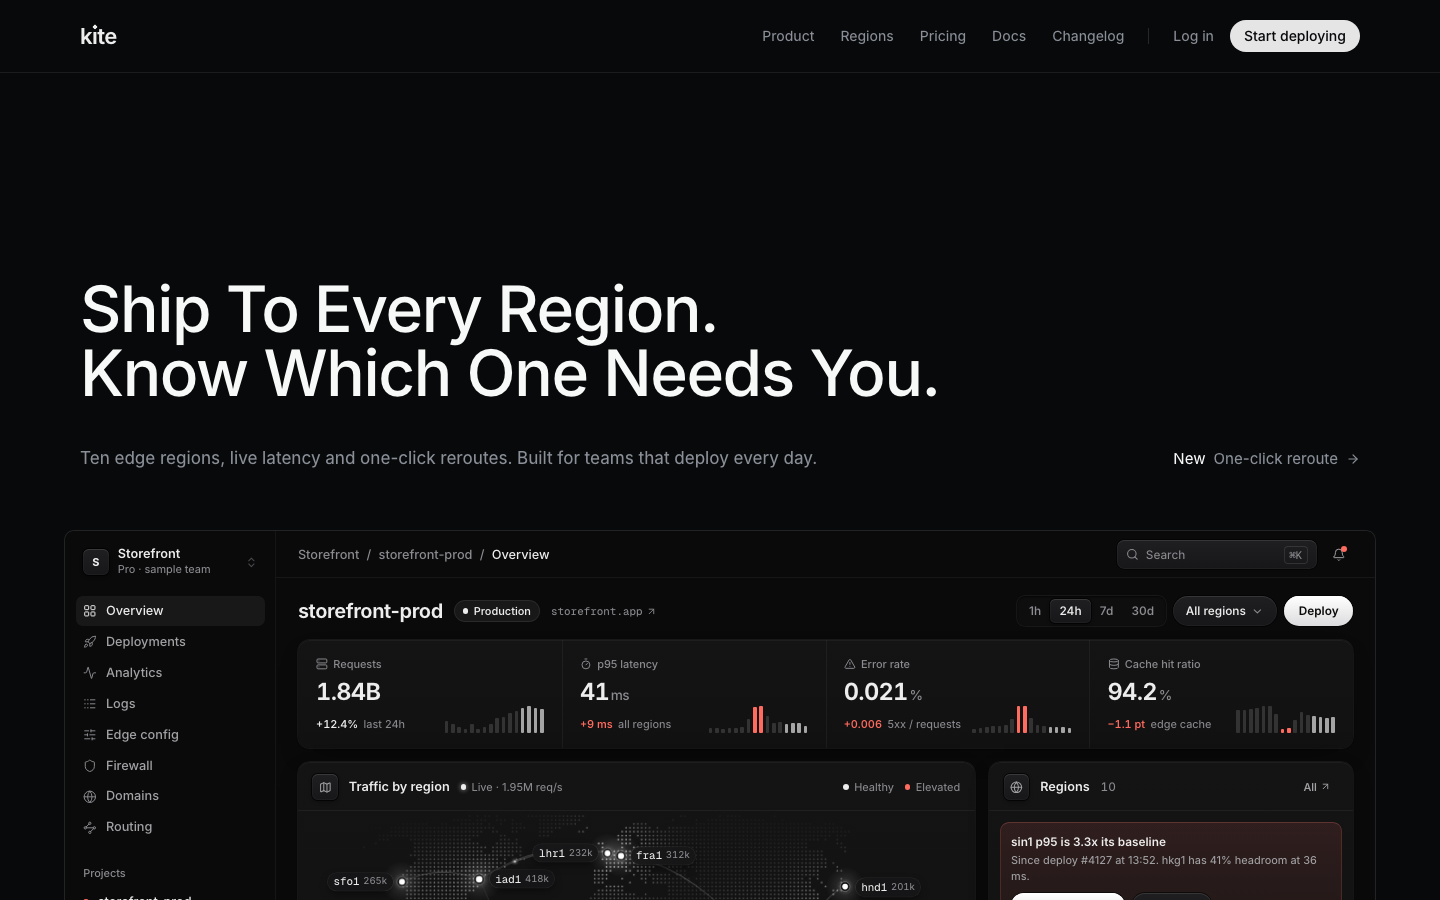
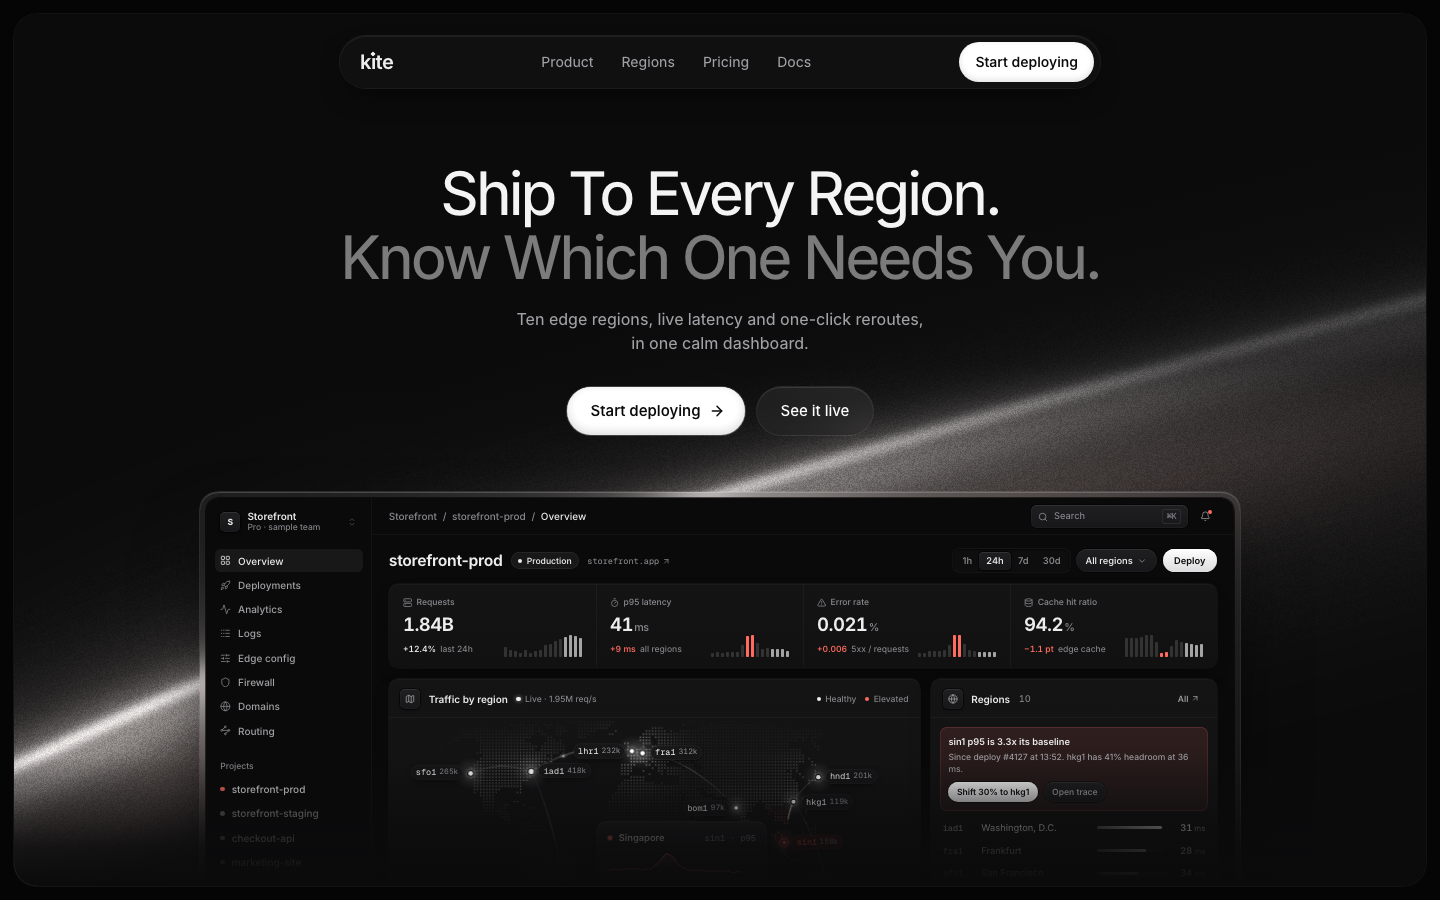
Kite hero: Supabase top half + Cursor product stage, Kestrel type craft; light field removed

diff --git a/work/kite/app/src/Landing.tsx b/work/kite/app/src/Landing.tsx
@@ -7,7 +7,6 @@ import { motion, MotionConfig } from 'motion/react'
 import { ArrowRight } from 'lucide-react'
 import App from './App'
 import Wordmark from './Wordmark'
-import LightField from './LightField'
 import { ease } from './anim'
 
 const Word = ({ children, i }: { children: ReactNode; i: number }) => (
@@ -16,54 +15,54 @@ const Word = ({ children, i }: { children: ReactNode; i: number }) => (
 const Up = ({ at, children, className = '' }: { at: number; children: ReactNode; className?: string }) => (
   <motion.div className={className} initial={{ opacity: 0, y: 16 }} animate={{ opacity: 1, y: 0 }} transition={{ delay: at, duration: 1.0, ease: ease.out }}>{children}</motion.div>
 )
-/* Basit cinematic-dark grammar (knowledge/web/basit-craft.md BA-01..19): inset framed stage, one rendered light field
-   with grain in the light, floating glass capsule nav, centred 2-line headline at 450 / -0.05em with the second line at
-   half value, small close sub-copy, 48px CTAs (white carries its own inner light), the live dashboard ~72% wide sitting
-   in the brightest band, glass frame, dissolving into the canvas. */
-const Glass = 'linear-gradient(180deg, rgb(255 255 255 / 0.07), rgb(255 255 255 / 0.03))'
+/* Supabase top half + Cursor product stage, set with Kestrel's type craft (the founder loved its font, lightness,
+   spacing and professionalism). Calm 56px / 500 / -0.035em headline left, description in the right column, compact
+   CTAs, then a full-width stage panel (faint dot grid, hairline) with the dashboard window floating inside it. */
 export default function Landing() {
   const [dash, setDash] = useState(false)
   useEffect(() => { const id = window.setTimeout(() => setDash(true), 600); return () => clearTimeout(id) }, [])
-  const SW = 1412, SH = 872, PW = 1040, ZOOM = (PW - 12) / 1440
+  const C = 1200, WIN = 1040, ZOOM = (WIN - 2) / 1440
   return (
     <MotionConfig reducedMotion="user">
-      <div className="relative mx-auto h-[900px] w-[1440px] overflow-hidden bg-[#050506]" style={{ fontFamily: '"Inter Variable", system-ui, sans-serif' }}>
-        {/* the stage */}
-        <div className="absolute left-[14px] top-[14px] overflow-hidden rounded-[28px] shadow-[0_0_0_1px_rgb(255_255_255/0.06)]" style={{ width: SW, height: SH }}>
-          <motion.div className="absolute inset-0" initial={{ opacity: 0, scale: 1.04 }} animate={{ opacity: 1, scale: 1 }} transition={{ duration: 2.0, ease: ease.out }}><LightField w={SW} h={SH} /></motion.div>
-
-          {/* floating capsule nav */}
-          <Up at={0.05} className="absolute left-1/2 top-[22px] z-30 -translate-x-1/2">
-            <header className="flex h-[52px] w-[760px] items-center rounded-full pl-5 pr-[6px] backdrop-blur-xl" style={{ background: 'rgb(18 18 20 / 0.72)', boxShadow: '0 0 0 1px rgb(255 255 255 / 0.08), inset 0 1px 0 rgb(255 255 255 / 0.08), 0 12px 30px -12px rgb(0 0 0 / 0.8)' }}>
-              <a href="#" className="flex h-10 items-center"><Wordmark size={20} /></a>
-              <nav aria-label="Main" className="mx-auto"><ul className="flex items-center gap-1 text-[14px] text-[#a1a1a6]">{['Product', 'Regions', 'Pricing', 'Docs'].map((l) => <li key={l}><a href="#" className="st flex h-9 items-center rounded-full px-3 hover:text-white">{l}</a></li>)}</ul></nav>
-              <a href="#" className="st flex h-10 items-center rounded-full bg-white px-4 text-[14px] font-[550] text-[#0a0a0b] shadow-[inset_0_-2px_6px_rgb(0_0_0/0.12)] hover:bg-[#f2f2f2]">Start deploying</a>
-            </header>
-          </Up>
-
-          {/* copy */}
-          <div className="relative z-20 flex flex-col items-center pt-[148px] text-center">
-            <h1 className="text-[60px] font-[450] leading-[1.06] tracking-[-0.05em] text-[#f4f4f5]">
-              <Word i={0}>Ship</Word> <Word i={1}>To</Word> <Word i={2}>Every</Word> <Word i={3}>Region.</Word><br />
-              <span className="text-[rgb(244_244_245/0.48)]"><Word i={4}>Know</Word> <Word i={5}>Which</Word> <Word i={6}>One</Word> <Word i={7}>Needs</Word> <Word i={8}>You.</Word></span>
-            </h1>
-            <Up at={0.5} className="mt-[18px]"><p className="text-[16px] leading-[24px] text-[#a1a1a6]">Ten edge regions, live latency and one-click reroutes,<br />in one calm dashboard.</p></Up>
-            <Up at={0.6} className="mt-[32px] flex items-center gap-3">
-              <a href="#" className="st group flex h-12 items-center gap-2 rounded-full bg-white pl-6 pr-5 text-[15px] font-[550] text-[#0a0a0b] hover:bg-[#f4f4f4]" style={{ boxShadow: 'inset 0 -3px 10px rgb(0 0 0 / 0.14), inset 0 1px 0 #fff, 0 0 0 1px rgb(255 255 255 / 0.2)' }}>Start deploying<ArrowRight size={16} strokeWidth={2.2} className="transition-transform group-hover:translate-x-0.5" /></a>
-              <a href="#" className="st flex h-12 items-center rounded-full px-6 text-[15px] font-[500] text-white backdrop-blur-md hover:bg-[rgb(255_255_255/0.1)]" style={{ background: Glass, boxShadow: '0 0 0 1px rgb(255 255 255 / 0.1), inset 0 1px 0 rgb(255 255 255 / 0.1)' }}>See it live</a>
-            </Up>
+      <div className="relative mx-auto h-[900px] w-[1440px] overflow-hidden bg-[#0b0b0c]" style={{ fontFamily: '"Inter Variable", system-ui, sans-serif' }}>
+        <header className="absolute inset-x-0 top-0 z-30 h-16 border-b border-[rgb(255_255_255/0.07)]">
+          <div className="mx-auto flex h-full items-center" style={{ width: C }}>
+            <a href="#" className="flex h-10 items-center"><Wordmark size={21} /></a>
+            <nav aria-label="Main" className="ml-10"><ul className="flex items-center gap-1 text-[14px] font-[450] text-[#a1a1a6]">{['Product', 'Regions', 'Pricing', 'Docs', 'Changelog'].map((l) => <li key={l}><a href="#" className="st flex h-9 items-center rounded-[8px] px-3 hover:text-[#f4f4f5]">{l}</a></li>)}</ul></nav>
+            <div className="ml-auto flex items-center gap-2">
+              <a href="#" className="st flex h-8 items-center rounded-[8px] px-3 text-[14px] font-[450] text-[#d4d4d8] shadow-[inset_0_0_0_1px_rgb(255_255_255/0.1)] hover:bg-[rgb(255_255_255/0.05)]">Sign in</a>
+              <a href="#" className="st flex h-8 items-center rounded-[8px] bg-[#f4f4f5] px-3 text-[14px] font-[550] text-[#0b0b0c] hover:bg-white">Start deploying</a>
+            </div>
           </div>
+        </header>
 
-          {/* the product, in the light */}
-          <motion.div className="absolute left-1/2 z-10 -translate-x-1/2 rounded-[22px] p-[6px] backdrop-blur-md" style={{ top: 478, width: PW, background: Glass, boxShadow: '0 0 0 1px rgb(255 255 255 / 0.12), inset 0 1px 0 rgb(255 255 255 / 0.18), 0 40px 80px -20px rgb(0 0 0 / 0.8)' }}
-            initial={{ opacity: 0, y: 50 }} animate={{ opacity: 1, y: 0 }} transition={{ delay: 0.45, duration: 1.4, ease: ease.out }}>
-            <div role="img" aria-label="The Kite dashboard: traffic by region, latency and deployments, sample data" inert className="overflow-hidden rounded-[16px] shadow-[0_0_0_1px_rgb(0_0_0/0.6)]" style={{ height: 900 * ZOOM }}>
+        <section className="relative mx-auto pt-[150px]" style={{ width: C }}>
+          <div className="flex items-start justify-between">
+            <div>
+              <h1 className="text-[56px] font-[500] leading-[1.06] tracking-[-0.035em] text-[#f4f4f5]">
+                <Word i={0}>Ship</Word> <Word i={1}>to</Word> <Word i={2}>every</Word> <Word i={3}>region</Word><br />
+                <span className="text-[#8e8e93]"><Word i={4}>See</Word> <Word i={5}>the</Word> <Word i={6}>one</Word> <Word i={7}>that</Word> <Word i={8}>needs</Word> <Word i={9}>you</Word></span>
+              </h1>
+              <Up at={0.55} className="mt-8 flex items-center gap-2.5">
+                <a href="#" className="st flex h-10 items-center gap-1.5 rounded-[10px] bg-[#f4f4f5] px-4 text-[14px] font-[550] text-[#0b0b0c] hover:bg-white">Start deploying<ArrowRight size={15} strokeWidth={2.2} /></a>
+                <a href="#" className="st flex h-10 items-center rounded-[10px] px-4 text-[14px] font-[500] text-[#e4e4e7] shadow-[inset_0_0_0_1px_rgb(255_255_255/0.12)] hover:bg-[rgb(255_255_255/0.05)]">Request a demo</a>
+              </Up>
+            </div>
+            <Up at={0.45} className="mt-[14px] w-[420px]"><p className="text-[17px] leading-[27px] text-[#a1a1a6]">Kite runs your app in ten edge regions. It watches latency everywhere, points at the region that slows down, and offers the fix in one click.</p></Up>
+          </div>
+        </section>
+
+        {/* Cursor-style stage: a full-width panel with a faint dot grid, the dashboard window floating inside */}
+        <motion.div className="absolute left-1/2 top-[416px] -translate-x-1/2 overflow-hidden rounded-[16px] border border-[rgb(255_255_255/0.07)]" style={{ width: C, height: 520, background: '#111113' }}
+          initial={{ opacity: 0, y: 30 }} animate={{ opacity: 1, y: 0 }} transition={{ delay: 0.35, duration: 1.2, ease: ease.out }}>
+          <div aria-hidden className="absolute inset-0" style={{ backgroundImage: 'radial-gradient(rgb(255 255 255 / 0.09) 1px, transparent 1.2px)', backgroundSize: '18px 18px', backgroundPosition: '8px 8px' }} />
+          <motion.div className="absolute left-1/2 top-[56px] -translate-x-1/2 overflow-hidden rounded-[12px]" style={{ width: WIN, boxShadow: '0 0 0 1px rgb(255 255 255 / 0.1), 0 30px 60px -20px rgb(0 0 0 / 0.8), 0 0 0 6px rgb(0 0 0 / 0.25)' }}
+            initial={{ opacity: 0, y: 24 }} animate={{ opacity: 1, y: 0 }} transition={{ delay: 0.55, duration: 1.2, ease: ease.out }}>
+            <div role="img" aria-label="The Kite dashboard: traffic by region, latency and deployments, sample data" inert style={{ height: 900 * ZOOM }}>
               <div style={{ zoom: ZOOM }}>{dash ? <App embedded /> : <div className="h-[900px] w-[1440px] bg-[var(--canvas)]" />}</div>
             </div>
           </motion.div>
-          {/* dissolve the product into the stage */}
-          <div aria-hidden className="pointer-events-none absolute inset-x-0 bottom-0 z-20 h-[130px]" style={{ background: 'linear-gradient(180deg, transparent, rgb(11 11 12 / 0.85) 70%, #0b0b0c)' }} />
-        </div>
+        </motion.div>
       </div>
     </MotionConfig>
   )

diff --git a/work/kite/landing/refs.html b/work/kite/landing/refs.html
@@ -1,0 +1,14 @@
+<!doctype html><meta charset=utf-8><body style="margin:0;background:#161617;font:600 15px Inter,sans-serif;color:#f5f5f7"><div style="display:grid;grid-template-columns:repeat(4,334px);gap:12px 18px;padding:16px 26px">
+<div><div style="margin:0 0 5px">1 · raycast</div><div style="width:334px;height:209px;overflow:hidden;border-radius:8px"><img src="raycast-fold-1440x900@2x.png" style="width:334px;display:block"></div></div>
+<div><div style="margin:0 0 5px">2 · cursor</div><div style="width:334px;height:209px;overflow:hidden;border-radius:8px"><img src="cursor-fold-1440x900@2x.png" style="width:334px;display:block"></div></div>
+<div><div style="margin:0 0 5px">3 · framer</div><div style="width:334px;height:209px;overflow:hidden;border-radius:8px"><img src="framer-fold-1440x900@2x.png" style="width:334px;display:block"></div></div>
+<div><div style="margin:0 0 5px">4 · resend</div><div style="width:334px;height:209px;overflow:hidden;border-radius:8px"><img src="resend-fold-1440x900@2x.png" style="width:334px;display:block"></div></div>
+<div><div style="margin:0 0 5px">5 · vercel</div><div style="width:334px;height:209px;overflow:hidden;border-radius:8px"><img src="vercel-fold-1440x900@2x.png" style="width:334px;display:block"></div></div>
+<div><div style="margin:0 0 5px">6 · supabase</div><div style="width:334px;height:209px;overflow:hidden;border-radius:8px"><img src="supabase-fold-1440x900@2x.png" style="width:334px;display:block"></div></div>
+<div><div style="margin:0 0 5px">7 · railway</div><div style="width:334px;height:209px;overflow:hidden;border-radius:8px"><img src="railway-fold-1440x900@2x.png" style="width:334px;display:block"></div></div>
+<div><div style="margin:0 0 5px">8 · planetscale</div><div style="width:334px;height:209px;overflow:hidden;border-radius:8px"><img src="planetscale-fold-1440x900@2x.png" style="width:334px;display:block"></div></div>
+<div><div style="margin:0 0 5px">9 · neon</div><div style="width:334px;height:209px;overflow:hidden;border-radius:8px"><img src="neon-fold-1440x900@2x.png" style="width:334px;display:block"></div></div>
+<div><div style="margin:0 0 5px">10 · github</div><div style="width:334px;height:209px;overflow:hidden;border-radius:8px"><img src="github-fold-1440x900@2x.png" style="width:334px;display:block"></div></div>
+<div><div style="margin:0 0 5px">11 · linear</div><div style="width:334px;height:209px;overflow:hidden;border-radius:8px"><img src="linear-fold-1440x900@2x.png" style="width:334px;display:block"></div></div>
+<div><div style="margin:0 0 5px">12 · zed</div><div style="width:334px;height:209px;overflow:hidden;border-radius:8px"><img src="zed-1440.png" style="width:334px;display:block"></div></div>
+</div>

diff --git a/knowledge/founder/founder-taste.md b/knowledge/founder/founder-taste.md
@@ -393,3 +393,6 @@ Every rule here is a direct founder verdict on real output. It outranks books, w
 - **RULE** [founder] A dark hero needs exactly one strong, tasteful visual moment, or it reads "flat and empty"; glows scattered around ("wtf") and bare black ("too little") both fail. Use Basit's cinematic grammar: an inset framed stage (r28, 14px from the viewport), one rendered light field kept SOFT: a wide, blurred, low-contrast sheen (peak alpha <= ~0.08, blur >= 60px, light grain), neutral silver with a faint warm cast, never a thin bright streak or laser line (founder: "be careful with bg elements, now it looks cheap and ugly") whose brightest band crests just behind the product's top edge and falls to black before the copy, a floating glass capsule nav, a centred 60px / 450 / -0.05em two-line headline with the second line at ~50% value, 16px sub-copy close under it, 48px CTAs (white lit from inside + glass), and the product ~72% wide in a glass frame dissolving at the bottom.
   **Why** Founder after the Linear replica: "it's flat and empty... what didn't [work] is everything from font styling to layout and colors and effects... you cooked with the dashboard, best thing in the world". Murmur (same grammar) was accepted.
   **Applies to** dark product heroes. **Check** one light source rendered (canvas/image), not CSS blobs; light luminance under the h1/CTAs < 8%; product top in the brightest band. **Source** founder, 2026-10-14, Kite hero; knowledge/web/basit-craft.md BA-01..19
+- **RULE** [founder] What the founder loves in our light builds (Kestrel) is type, lightness, spacing and professionalism, not effects; carry exactly that into dark. Default dark product hero = Supabase top half + Cursor product stage: full-width hairline nav (links left after the logo, Sign in outline + light CTA right), 1200 container, a calm two-line 56px / 500 / -0.035em Inter headline on the left (second line soft grey), the description in a right column (17/27, ~420px), compact 40px CTAs, then a full-width stage panel (#111113, hairline, faint 18px dot grid) with the product window floating inside it. The founder named Cursor and Supabase as the heroes he likes.
+  **Why** Founder: "look at the light designs I've loved, the way you did the font, lightness, spacing and professionalism... I like Cursor, Supabase".
+  **Applies to** dark SaaS heroes. **Check** no glow/light field; headline <= 60px at 500; product stage top <= 430px. **Source** founder, 2026-10-14, Kite hero
